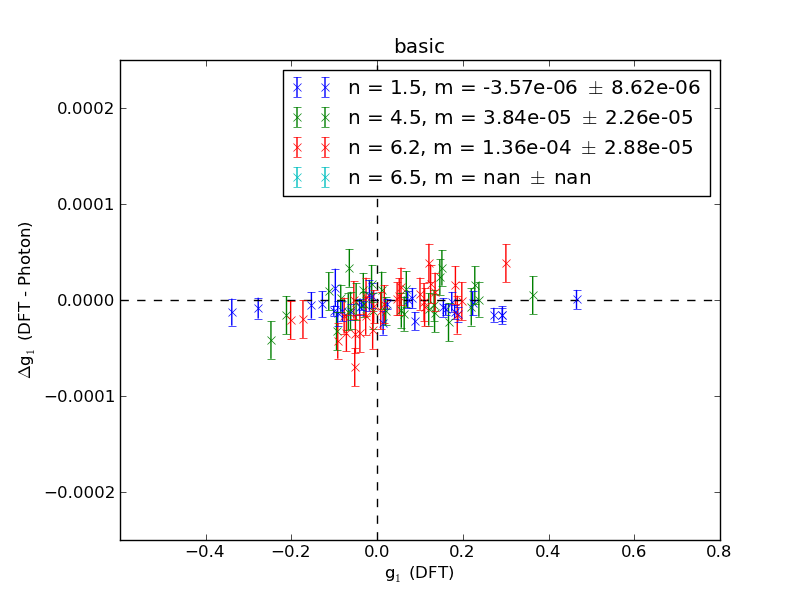
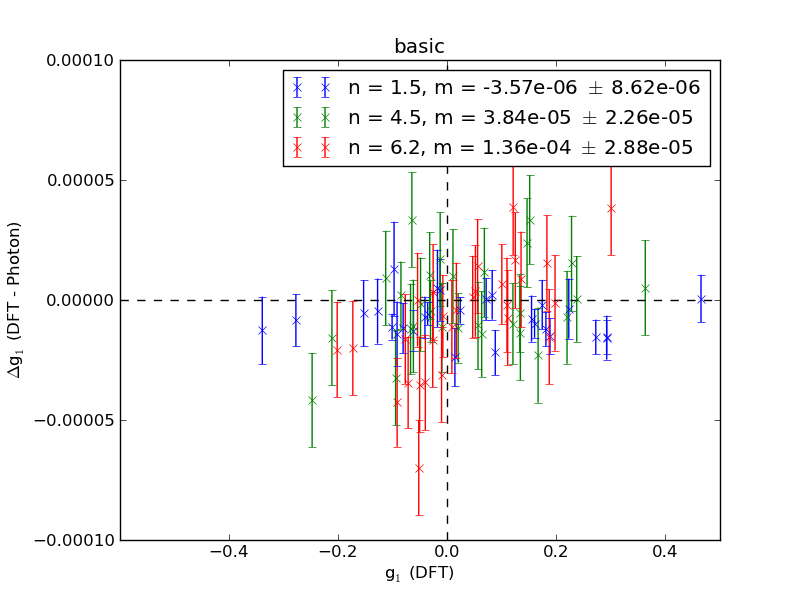
further zoom and refinement of sersic n plots for GREAT3 handbook

diff --git a/devel/external/test_sersic_highn/plot_sersic_highn.py b/devel/external/test_sersic_highn/plot_sersic_highn.py
@@ -46,9 +46,9 @@ for test_case in ("basic",):# "alias2", "maxk2", "wmult2", "alias2_maxk2_wmult2"
         g2_output[0:data.shape[0]/ntest, j] = data[range(j, data.shape[0], ntest), 12]
 
     # First do the plots of g1
-    YMAX_ZOOMIN = 2.5e-4
+    YMAX_ZOOMIN = 1e-4
     XMIN = -.6
-    XMAX = .8
+    XMAX = .5
     plt.clf()
     plt.axhline(ls='--', color='k')
     plt.axvline(ls='--', color='k')
@@ -72,7 +72,7 @@ for test_case in ("basic",):# "alias2", "maxk2", "wmult2", "alias2_maxk2_wmult2"
     plt.legend()
     plt.title(test_case)
     plt.subplots_adjust(left=0.15)
-    plt.savefig(os.path.join('plots', 'sersic_highn_'+test_case+'_zoomin_g1.eps'))
+    plt.savefig(os.path.join('plots', 'sersic_highn_'+test_case+'_zoomin_g1.png'))
 
     # Then do the plots of g2
     plt.clf()
@@ -97,12 +97,12 @@ for test_case in ("basic",):# "alias2", "maxk2", "wmult2", "alias2_maxk2_wmult2"
     plt.ylim(-YMAX_ZOOMIN, YMAX_ZOOMIN)
     plt.legend()
     plt.title(test_case)
-    plt.savefig(os.path.join('plots', 'sersic_highn_'+test_case+'_zoomin_g2.eps'))
+    plt.savefig(os.path.join('plots', 'sersic_highn_'+test_case+'_zoomin_g2.png'))
 
     # Then do the plots of sigma
-    YMAX_ZOOMIN = 1.e-4 # in arcsec
+    YMAX_ZOOMIN = 5 # in 1e-5 arcsec
     XMIN = 0.
-    XMAX = 1.25 # in arcsec
+    XMAX = 0.7 # in arcsec
     plt.clf()
     plt.xlim(XMIN, XMAX)
     print ""
@@ -122,15 +122,15 @@ for test_case in ("basic",):# "alias2", "maxk2", "wmult2", "alias2_maxk2_wmult2"
             fmt='o'
         plt.errorbar(
             sigma_draw[0:data.shape[0]/ntest, i] * test_sersic_highn_basic.PIXEL_SCALE,
-            delta_sigma[0:data.shape[0]/ntest, i] * test_sersic_highn_basic.PIXEL_SCALE,
-            yerr=err_sigma[0:data.shape[0]/ntest, i] * test_sersic_highn_basic.PIXEL_SCALE, fmt=fmt,
+            1e5*delta_sigma[0:data.shape[0]/ntest, i] * test_sersic_highn_basic.PIXEL_SCALE,
+            yerr=1e5*err_sigma[0:data.shape[0]/ntest, i] * test_sersic_highn_basic.PIXEL_SCALE, fmt=fmt,
             label=r"n = %.1f, m = %.2e $\pm$ %.2e" % (
                 test_sersic_highn_basic.SERSIC_N_TEST[i], m, np.sqrt(var_m)))
-    plt.ylim(-.5 * YMAX_ZOOMIN, YMAX_ZOOMIN)
+    plt.ylim(-.3 * YMAX_ZOOMIN, YMAX_ZOOMIN)
     plt.xlabel(r'$\sigma$ (DFT) [arcsec]')
-    plt.ylabel(r'$\Delta \sigma$ (DFT - Photon) [arcsec]')
+    plt.ylabel(r'$\Delta \sigma$ (DFT - Photon) [1e-5 arcsec]')
     plt.axhline(ls='--', color='k')
     plt.legend()
     plt.title(test_case)
-    plt.savefig(os.path.join('plots', 'sersic_highn_'+test_case+'_zoomin_sigma.eps'))
+    plt.savefig(os.path.join('plots', 'sersic_highn_'+test_case+'_zoomin_sigma.png'))
 
